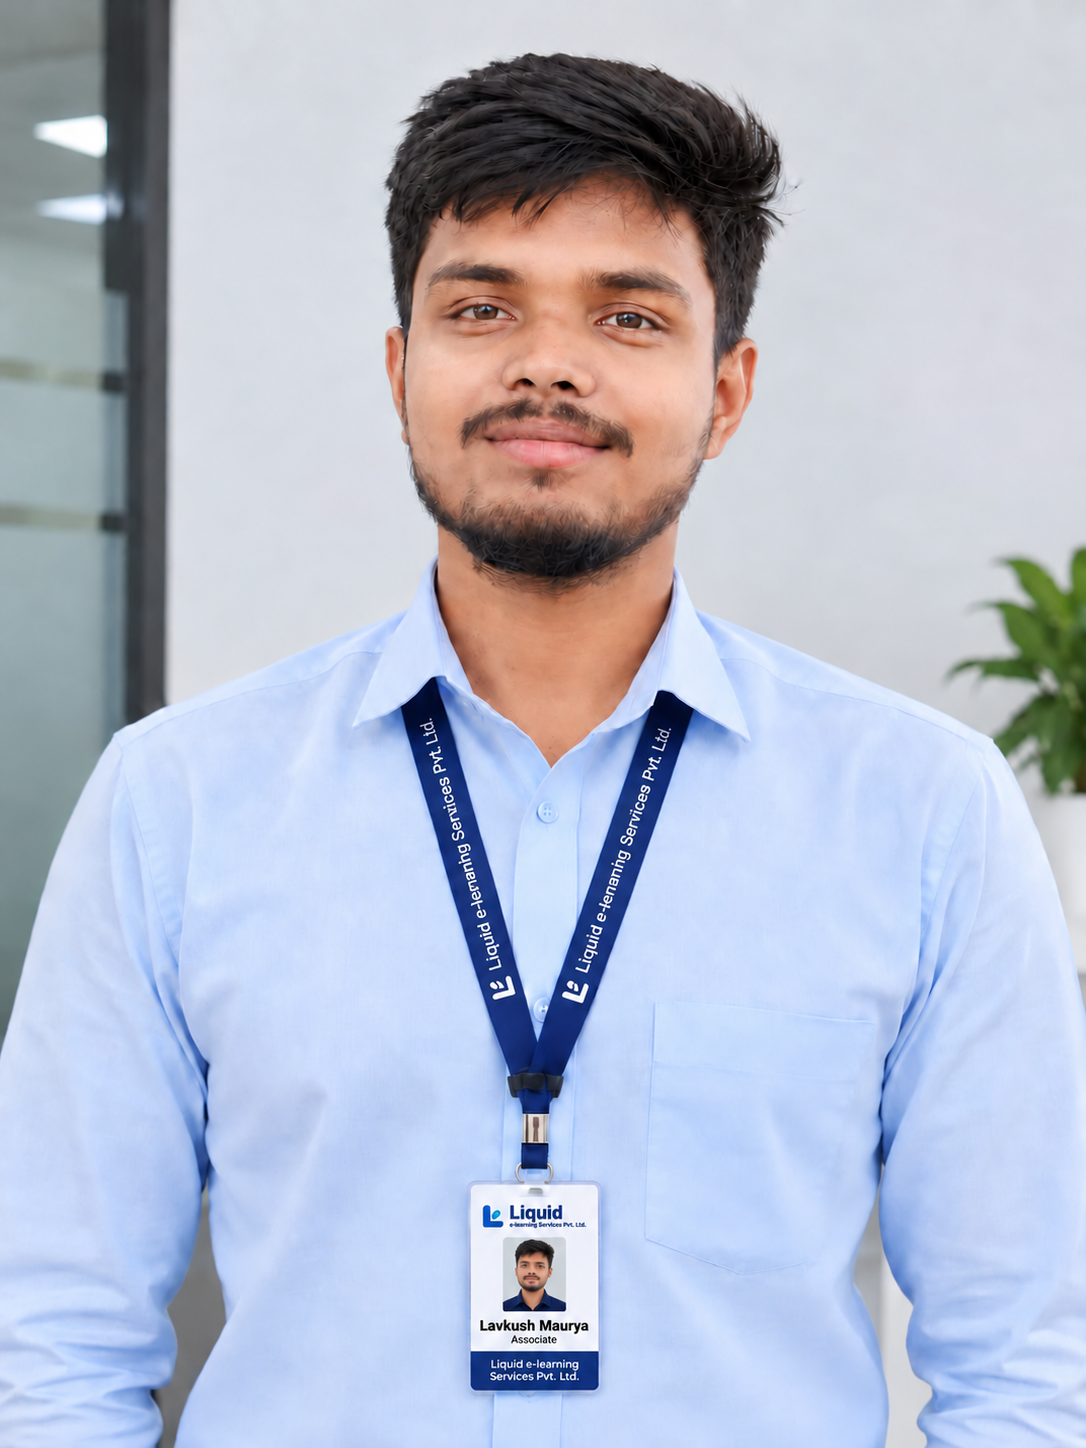
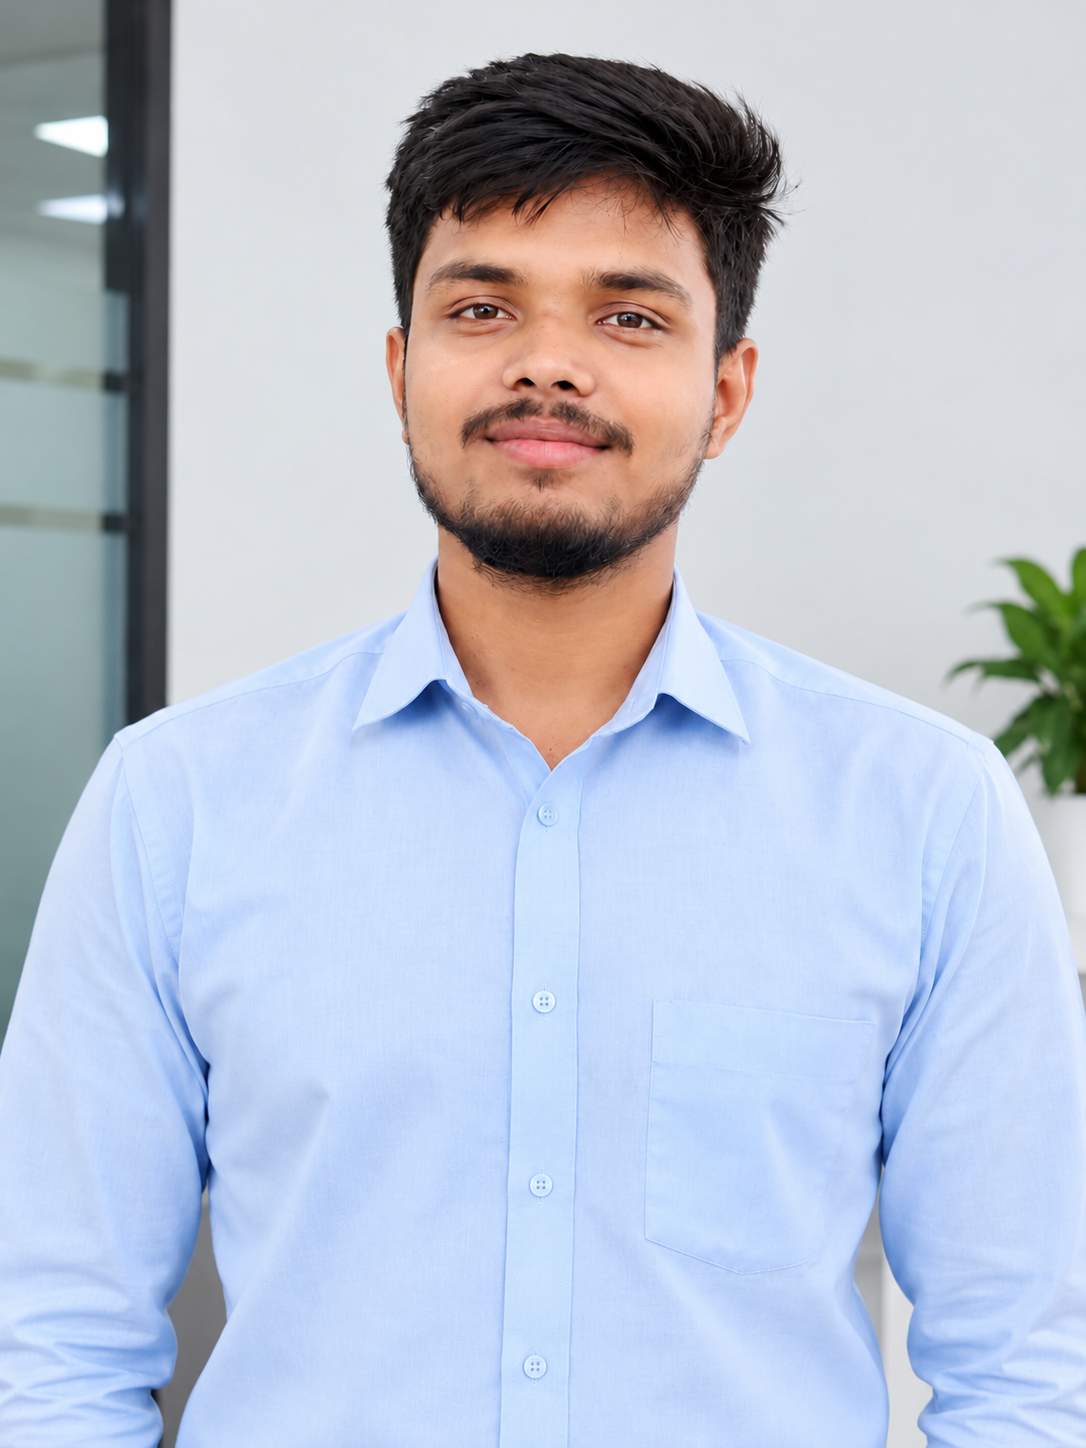
update

diff --git a/src/components/Projects/ProjectArtwork.module.css b/src/components/Projects/ProjectArtwork.module.css
@@ -1,12 +1,66 @@
-.projectArt { position: relative; height: 190px; overflow: hidden; padding: 18px; background: var(--accent-soft); }
+.projectArt { position: relative; height: 260px; overflow: hidden; padding: 18px; background: var(--accent-soft); }
 .browser { height: 100%; overflow: hidden; border: 1px solid color-mix(in srgb, var(--accent) 24%, var(--border)); border-radius: 10px; background: var(--bg); box-shadow: 0 14px 24px -16px rgba(15, 23, 42, .55); }
 .browserBar { display: flex; align-items: center; gap: 5px; height: 29px; padding: 0 10px; border-bottom: 1px solid var(--border); background: var(--surface); }
 .browserBar i { width: 6px; height: 6px; border-radius: 50%; background: var(--border); }
 .browserBar span { overflow: hidden; margin-left: 5px; color: var(--muted); font-size: 9px; text-overflow: ellipsis; white-space: nowrap; }
-.preview { display: flex; flex-direction: column; align-items: flex-start; height: calc(100% - 29px); padding: 23px; background: linear-gradient(125deg, var(--bg), var(--accent-soft)); }
+.preview { position: relative; height: calc(100% - 29px); overflow: hidden; }
+
+/* Live iframe preview */
+.iframeWrap { position: relative; width: 100%; height: 100%; overflow: hidden; }
+.iframe {
+  position: absolute;
+  top: 0;
+  left: 0;
+  width: 1280px;
+  height: 800px;
+  border: none;
+  transform-origin: 0 0;
+  transform: scale(0.25);
+  pointer-events: none;
+  opacity: 0;
+  transition: opacity 600ms ease;
+}
+.iframeLoaded { opacity: 1; }
+.iframeOverlay {
+  position: absolute;
+  inset: 0;
+  pointer-events: none;
+  background: linear-gradient(180deg, transparent 50%, color-mix(in srgb, var(--bg) 80%, transparent) 100%);
+  z-index: 1;
+}
+
+/* Loading skeleton */
+.iframeSkeleton {
+  position: absolute;
+  inset: 0;
+  background: linear-gradient(125deg, var(--bg), var(--accent-soft));
+  overflow: hidden;
+}
+.shimmer {
+  position: absolute;
+  inset: 0;
+  background: linear-gradient(90deg, transparent 0%, color-mix(in srgb, var(--accent) 10%, transparent) 50%, transparent 100%);
+  animation: shimmerAnim 1.5s infinite;
+}
+@keyframes shimmerAnim {
+  from { transform: translateX(-100%); }
+  to { transform: translateX(100%); }
+}
+
+/* Fallback styled hero (if iframe fails) */
+.fallback { display: flex; flex-direction: column; align-items: flex-start; height: 100%; padding: 22px 23px; background: linear-gradient(125deg, var(--bg), var(--accent-soft)); }
 .category { color: var(--accent); font: 600 9px var(--font-mono); letter-spacing: 1.2px; }
-.preview strong { max-width: 220px; margin-top: 10px; color: var(--text); font-size: 21px; line-height: 1.12; letter-spacing: -.7px; }
+.fallback strong { max-width: 220px; margin-top: 10px; color: var(--text); font-size: 21px; line-height: 1.12; letter-spacing: -.7px; }
+.fallback p { max-width: 230px; margin: 10px 0 0; color: var(--muted); font-size: 9px; line-height: 1.45; }
+.previewFooter { display: flex; align-items: flex-end; justify-content: space-between; width: 100%; gap: 10px; margin-top: auto; }
+.previewAction { display: inline-flex; align-items: center; gap: 5px; color: var(--text); font-size: 9px; font-weight: 700; }
+.previewAction b { color: var(--accent); font-size: 12px; }
 .lines { display: grid; gap: 6px; width: 100%; margin-top: auto; }
 .lines i { display: block; width: 85%; height: 5px; border-radius: 20px; background: var(--border); }
 .lines i:nth-child(2) { width: 66%; }.lines i:nth-child(3) { width: 45%; background: var(--accent); opacity: .55; }
-.projectNumber { position: absolute; right: 30px; bottom: 28px; color: var(--accent); font: 600 10px var(--font-mono); letter-spacing: 1px; }
+.projectNumber { position: absolute; right: 30px; bottom: 28px; color: var(--accent); font: 600 10px var(--font-mono); letter-spacing: 1px; z-index: 2; }
+
+@media (min-width: 600px) {
+  .projectArt { height: 280px; }
+  .iframe { transform: scale(0.28); }
+}

diff --git a/src/components/Projects/ProjectArtwork.tsx b/src/components/Projects/ProjectArtwork.tsx
@@ -1,15 +1,48 @@
+import { useState } from 'react'
 import type { Project } from '../../types/portfolio'
 import styles from './ProjectArtwork.module.css'
 
 export default function ProjectArtwork({ project, index }: { project: Project; index: number }) {
+  const [loaded, setLoaded] = useState(false)
+  const [error, setError] = useState(false)
+  const previewUrl = project.liveUrl
+
   return (
     <div className={styles.projectArt} aria-hidden="true">
       <div className={styles.browser}>
         <div className={styles.browserBar}><i /><i /><i /><span>{project.title}</span></div>
         <div className={styles.preview}>
-          <span className={styles.category}>{project.category}</span>
-          <strong>{project.title}</strong>
-          <div className={styles.lines}><i /><i /><i /></div>
+          {/* Live website iframe preview */}
+          {previewUrl && !error ? (
+            <div className={styles.iframeWrap}>
+              <iframe
+                src={previewUrl}
+                title={`${project.title} preview`}
+                className={`${styles.iframe} ${loaded ? styles.iframeLoaded : ''}`}
+                onLoad={() => setLoaded(true)}
+                onError={() => setError(true)}
+                loading="lazy"
+                sandbox="allow-scripts allow-same-origin"
+              />
+              {!loaded && (
+                <div className={styles.iframeSkeleton}>
+                  <div className={styles.shimmer} />
+                </div>
+              )}
+              <div className={styles.iframeOverlay} />
+            </div>
+          ) : (
+            /* Fallback: original styled hero preview */
+            <div className={styles.fallback}>
+              <span className={styles.category}>{project.heroEyebrow ?? project.category}</span>
+              <strong>{project.heroTitle ?? project.title}</strong>
+              {project.heroDescription && <p>{project.heroDescription}</p>}
+              <div className={styles.previewFooter}>
+                <span className={styles.previewAction}>{project.heroAction ?? 'Explore project'} <b>↗</b></span>
+                <div className={styles.lines}><i /><i /><i /></div>
+              </div>
+            </div>
+          )}
         </div>
       </div>
       <span className={styles.projectNumber}>{String(index + 1).padStart(2, '0')}</span>

diff --git a/src/components/Projects/Projects.tsx b/src/components/Projects/Projects.tsx
@@ -16,24 +16,12 @@ export default function Projects() {
       <div className={layout['container']}>
         <SectionHeading {...sections.projects} />
         <div className={styles['projects-grid']}>
-          {projects.slice(0, 4).map((project, index) => (
+          {projects.map((project, index) => (
             <Reveal key={project.title} delay={index * 130}>
               <ProjectCard project={project} index={index} />
             </Reveal>
           ))}
         </div>
-        {projects.length > 4 && (
-          <div className={styles.moreProjects}>
-            <h3>More Projects</h3>
-            <div className={styles['projects-grid']}>
-              {projects.slice(4).map((project, index) => (
-                <Reveal key={project.title} delay={index * 100}>
-                  <ProjectCard project={project} index={index + 4} />
-                </Reveal>
-              ))}
-            </div>
-          </div>
-        )}
       </div>
     </section>
   )

diff --git a/src/types/portfolio.ts b/src/types/portfolio.ts
@@ -20,6 +20,10 @@ export type PortfolioData = {
     tags: string[]
     details: string[]
     image: string
+    heroEyebrow?: string
+    heroTitle?: string
+    heroDescription?: string
+    heroAction?: string
     liveUrl?: string
     repositoryUrl: string
   }[]
